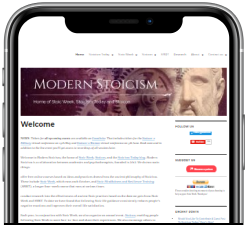
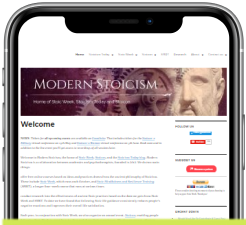
Главная: переделать блок "польза для резидента"

Changed region(s): [[0.0, 0.9644, 1.0, 1.0]]

diff --git a/local/templates/main/css/styles.css b/local/templates/main/css/styles.css
@@ -1718,6 +1718,22 @@ ul li::before {
     margin: 20px auto 0;
   }
 }
+.image-card__img::after {
+  content: "";
+  height: 4px;
+  background: linear-gradient(180deg, rgba(255, 255, 255, 0) 60%, #D1E754 60%, #D1E754 85%, rgba(255, 255, 255, 0) 85%, rgba(255, 255, 255, 0) 100%);
+  display: inline;
+}
+.image-card__img::after::after {
+  content: "";
+  display: block;
+  height: 0;
+}
+@media only screen and (max-width: 1150px) {
+  .image-card__img::after::after {
+    height: 0;
+  }
+}
 
 .image-card-2 {
   max-width: 750px;
@@ -1745,6 +1761,9 @@ ul li::before {
   .image-card-2 .image-card__img {
     margin: 20px auto 0;
   }
+}
+.image-card-2 .image-card__img::after {
+  content: none;
 }
 
 [data-fslightbox] {

diff --git a/src/sass/blocks.scss b/src/sass/blocks.scss
@@ -213,6 +213,12 @@
             max-width: 625px;
             margin: 20px auto 0;
         }
+
+        &::after {
+            content: '';
+            height: 4px;
+            @include underline(#D1E754, 0, 0);
+        }
     }
 }
 
@@ -237,6 +243,10 @@
 
         @include adaptive(beforeDesk) {
             margin: 20px auto 0;
+        }
+
+        &::after {
+            content: none;
         }
     }
 }
